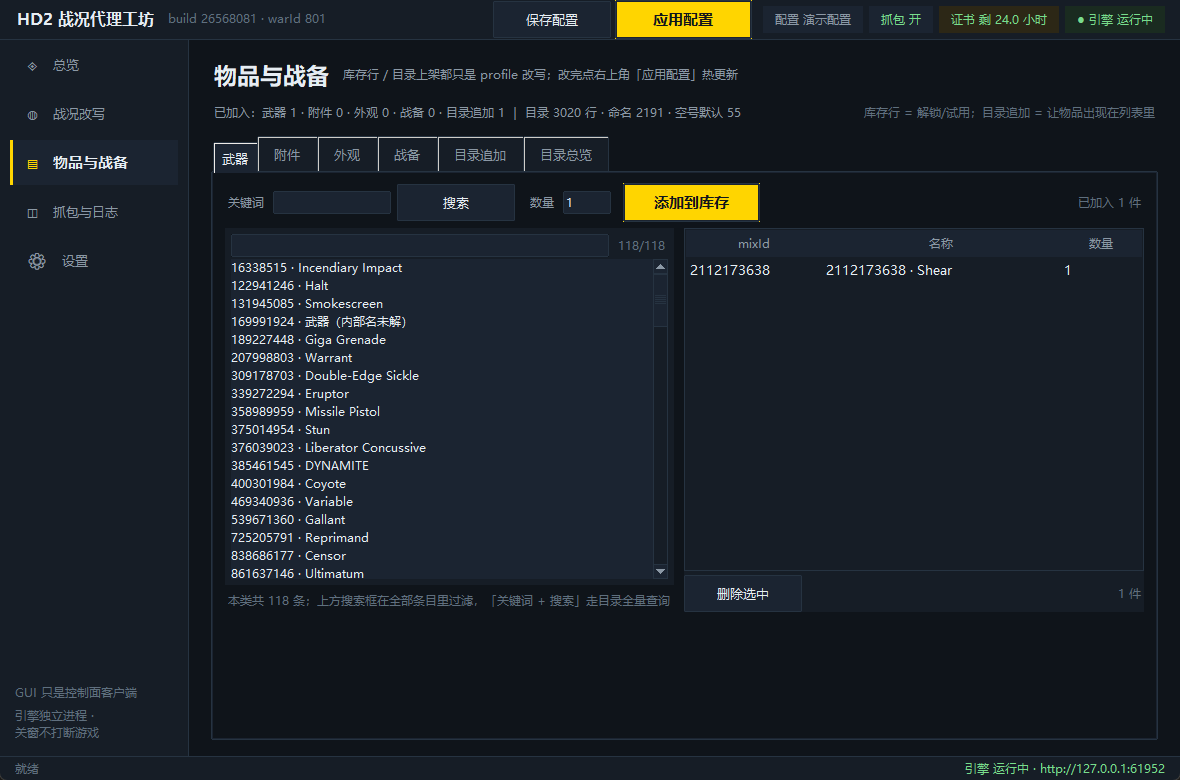
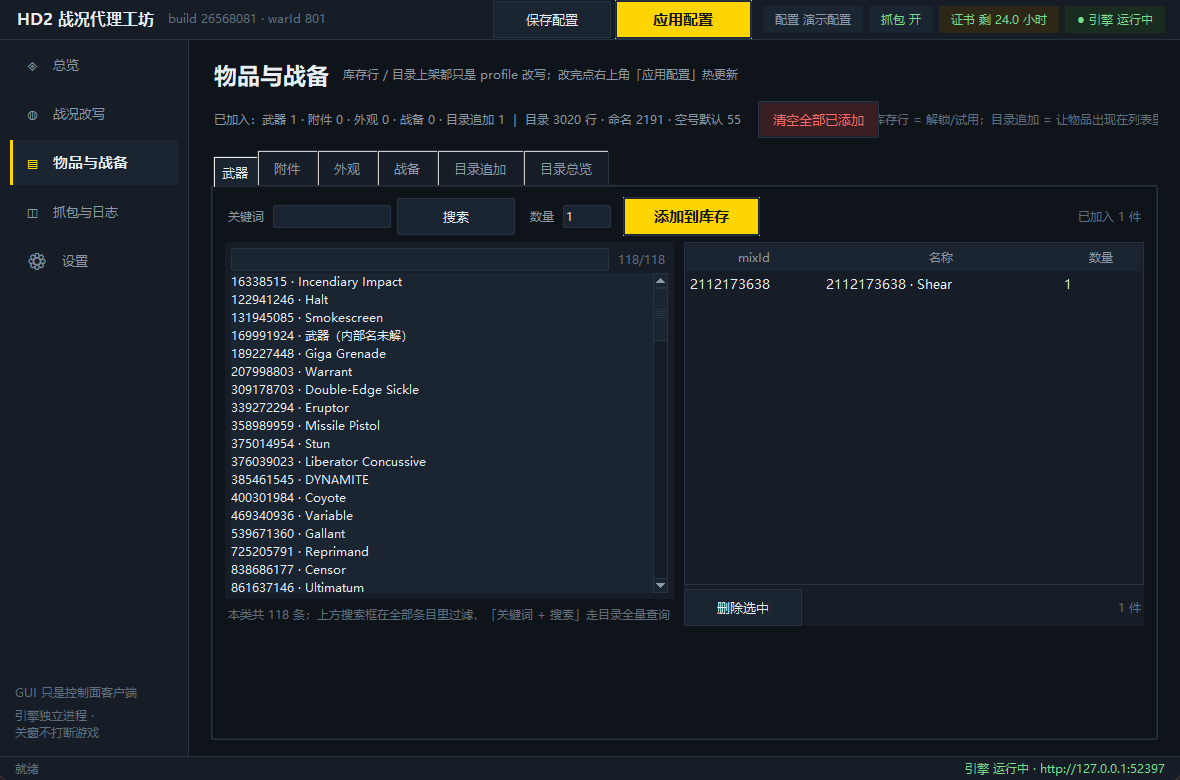
feat(inventory): 一键清空全部已添加项（批量移除库存 + 目录追加，0.4.1-alpha.1）
用户报：附件这类成百上千条的物品能批量添加（一级选武器 → 一键解锁该武器全部配件），
但移除只能逐条点「删除选中」，一把枪几十条撤回点几十次。

- 物品与战备页顶部新增 danger 按钮「清空全部已添加」：一次撤回本页所有改动 ——
  武器/附件/外观/战备四类库存行 + 目录追加列表全部清空；目录缺失物品自动配对的
  目录行随之消失；profile["items"]["template"] 标量设置保留。
- 交互：确认框先列出各类条数（武器 0 · 附件 117 · … · 目录追加 1），点「否」零改动；
  没有可清项时提示「本页没有已添加项」，不弹确认框；只改内存 profile，
  「应用配置」后才热更新到引擎（与其它编辑一致）。
- 测试：468 → 470（批量添加后「否保留 / 是清空 + template 保留 + 汇总归零」端到端；
  空列表提示且不标脏）；门禁 GATE=PASS。
- 文档：CHANGELOG / docs/RELEASE-v0.4.1-alpha.1.md / README / PLAN 15.5；物品页截图刷新。

版本：小幅功能扩展 ⇒ 0.4.0-alpha.1 → 0.4.1-alpha.1（patch 位 + alpha.1 重置）。

diff --git a/src/hd2proxy/gui/pages/inventory.py b/src/hd2proxy/gui/pages/inventory.py
@@ -7,7 +7,7 @@
 """
 
 import tkinter as tk
-from tkinter import ttk
+from tkinter import messagebox, ttk
 
 from .. import theme
 from ..catalogs import CATALOG_SCOPES, ITEM_CATEGORY_LABELS
@@ -55,6 +55,9 @@ class InventoryPage(Page):
         bar.pack(fill="x", padx=22, pady=(0, 8))
         self.sum_lbl = tk.Label(bar, text="", bg=theme.BG, fg=theme.MUTED, font=theme.F_S)
         self.sum_lbl.pack(side="left")
+        # 一键撤回本页所有改动：四类库存行 + 目录追加（附件这类成百上千条的库存没法手点删）
+        theme.button(bar, "清空全部已添加", danger=True,
+                     command=self._clear_all_added).pack(side="left", padx=(14, 0))
         tk.Label(bar, text="库存行 = 解锁/试用；目录追加 = 让物品出现在列表里",
                  bg=theme.BG, fg=theme.DIM, font=theme.F_S).pack(side="right")
 
@@ -606,6 +609,44 @@ class InventoryPage(Page):
             doc = {}
             self.app.profile["items"] = doc
         return doc
+
+    # ---------------------------------------------------------------- 批量清空
+    def _clear_all_added(self):
+        """一键移除本页**所有已添加项**：四类库存行 + 目录追加行（只改本机 profile）。
+
+        为什么需要：附件是「武器 × 附件」粒度，一把枪批量添加能一次进几十条，
+        但没有批量移除时只能逐条点删除（附件最多 1455 条）。这里按「全部撤回」处理：
+        四类库存行清空 + 目录追加清空（目录缺失物品自动配对的目录行随之消失），
+        template 这类标量设置保留。确认框会先列出各类条数，取消不改任何东西。
+        """
+        inv = self._inventory(create=False)
+        counts = {key: len(inv.get(key) or []) for key, _label in EDIT_TABS}
+        add = self._items(create=False).get("add") or []
+        add_count = len(add) if isinstance(add, list) else 0
+        total = sum(counts.values()) + add_count
+        if not total:
+            self.app.toast("本页没有已添加项（库存与目录追加都是空的）", error=True)
+            return
+        detail = " · ".join("%s %d" % (label, counts[key]) for key, label in EDIT_TABS)
+        if add_count:
+            detail += " · 目录追加 %d" % add_count
+        message = chr(10).join([
+            "确定移除本页所有已添加项？", "", detail, "",
+            "只改本机 profile；点「应用配置」后才影响引擎。",
+        ])
+        if not messagebox.askyesno("清空全部已添加", message):
+            return
+        for key, _label in EDIT_TABS:
+            inv[key] = []
+        if add_count:
+            self._items()["add"] = []
+        self.app.mark_dirty()
+        for key, _label in EDIT_TABS:
+            self._render_tab(key)
+        self._render_items()
+        self._render_summary()
+        self.app.toast("已清空全部已添加项：库存 %d 条 · 目录追加 %d 条"
+                       % (sum(counts.values()), add_count))
 
     # ---------------------------------------------------------------- 刷新
     def _render_summary(self):

diff --git a/tests/unit/test_gui_pages.py b/tests/unit/test_gui_pages.py
@@ -555,6 +555,60 @@ def test_inventory_catalog_add_dedup(inv_page, app):
     assert app.profile["items"]["add"] == []
 
 
+def test_inventory_clear_all_added_removes_everything(inv_page, app, monkeypatch):
+    """一键清空：四类库存行 + 目录追加全撤（附件批量加整把武器后不必逐条删）。
+
+    附件是「武器 × 附件」粒度：一把枪批量添加一次几十条，最多 1455 条。本按钮是
+    「全部撤回」语义 —— 库存四类清空 + 目录追加清空，template 这类标量设置保留。
+    """
+    page = inv_page
+    gallery = page.app.catalogs.attachment_groups()
+    _pid, _name, items = gallery[0]
+    page._weapon_lists["attachments"].listbox.selection_set(0)
+    page._weapon_lists["attachments"]._on_select()
+    page._add_item("attachments")                       # 批量加整把武器的配件
+    assert len(app.profile["inventory"]["attachments"]) == len(items) > 0
+    weapon_mix = page.app.catalogs.search_items("", category="weapon")[0][0]
+    page._append_inventory_row("weapons", weapon_mix, 1)
+    page.catalog_list.listbox.selection_set(0)
+    page.var_template.set("2797466032")
+    page._add_catalog_item()                            # 目录追一条
+    assert app.profile["inventory"]["weapons"] and app.profile["items"]["add"]
+    # 取消：一条也不改
+    monkeypatch.setattr("hd2proxy.gui.pages.inventory.messagebox.askyesno",
+                        lambda *a, **k: False)
+    page._clear_all_added()
+    assert app.profile["inventory"]["weapons"]
+    assert app.profile["inventory"]["attachments"]
+    assert app.profile["items"]["add"]
+    # 确认：库存四类 + 目录追加全部清空
+    monkeypatch.setattr("hd2proxy.gui.pages.inventory.messagebox.askyesno",
+                        lambda *a, **k: True)
+    dirty_before = app.dirty
+    page._clear_all_added()
+    for key, _label in (("weapons", "武器"), ("attachments", "附件"),
+                        ("cosmetics", "外观"), ("stratagems", "战备")):
+        assert app.profile["inventory"][key] == [], key
+    assert app.profile["items"]["add"] == []
+    assert app.profile["items"]["template"] == 2797466032       # 标量设置保留
+    assert app.dirty > dirty_before
+    text, error = app.last_toast()
+    assert not error and "已清空全部已添加项" in text
+    assert "武器 0" in page.sum_lbl.cget("text")
+
+
+def test_inventory_clear_all_added_when_empty_toasts_error(inv_page, app):
+    """没有已添加项时点按钮：明确提示，不弹确认框、不标脏。"""
+    page = inv_page
+    app.profile["inventory"] = {}
+    app.profile.setdefault("items", {})["add"] = []
+    dirty_before = app.dirty
+    page._clear_all_added()
+    text, error = app.last_toast()
+    assert error and "没有已添加项" in text
+    assert app.dirty == dirty_before
+
+
 # ---------------------------------------------------------------- CapturePage
 
 

diff --git a/src/hd2proxy/__init__.py b/src/hd2proxy/__init__.py
@@ -4,4 +4,4 @@ M0 阶段：只做「代码迁移 + 离线自检可复现」。
 引擎入口见 `hd2proxy.engine.legacy_proxy`（逐字节迁移自研究线 war_proxy.py）。
 """
 
-__version__ = "0.4.0-alpha.1"
+__version__ = "0.4.1-alpha.1"

diff --git a/README.md b/README.md
@@ -8,15 +8,16 @@
 - 开发计划：[PLAN.md](PLAN.md) ｜ 代码来源与哈希：[docs/PROVENANCE.md](docs/PROVENANCE.md)
 - GUI 选型实测（稳定性/资源占用）：[research/TECH-STACK-DECISION.md](research/TECH-STACK-DECISION.md)
 
-> **当前状态：v0.4.0-alpha.1 已发布（2026-11-18，M0–M5 完成）** —— 引擎模块化 + 配置面/控制面/安装还原/证书自动续期/三连验收
+> **当前状态：v0.4.1-alpha.1 已发布（2026-11-18，M0–M5 完成）** —— 引擎模块化 + 配置面/控制面/安装还原/证书自动续期/三连验收
 > + **Tk GUI 五页** + **6 项能力模板 + 离线预演** + **6 项能力实机逐项验收通过**
 > （安装→游戏内验证→还原全链路，见 [docs/ACCEPTANCE-M4.md](docs/ACCEPTANCE-M4.md)），
-> **468 个单元测试 + 5 个离线自检全绿**；已打包发布 `v0.4.0-alpha.1`（见下方「下载」）。
+> **470 个单元测试 + 5 个离线自检全绿**；已打包发布 `v0.4.1-alpha.1`（见下方「下载」）。
 > 0.3.0 起「启动引擎」会先做 **443/8080/17897 端口预检**（冲突列占用者、可换监听地址），总览页新增**系统自检**（端口 / hosts / 证书 / 游戏进程）；
 > alpha.2 修掉现场检查弹控制台窗 + 切总览卡顿（子进程隐藏窗口 / 一条 `netstat -ano` / 诊断节流）；
 > alpha.3 修掉「续期证书后游戏报 Error 60」：证书信任状态进自检/红字，GUI 新增「安装 / 修复（UAC）」，续期后自动引导导入信任；
 > alpha.1(0.4.0) 把**服务端物品目录 3020 行全量**做进产品：`items.json` 1950 → **3062 条**、名字 1821 → **2191**、
 > 标注**空号默认拥有 55 项**，物品页新增只读 **「目录总览」** tab（汇总 / 类别筛选 / 默认已有 · 目录缺标记）。
+> alpha.1(0.4.1) 物品解锁加 **「清空全部已添加」**：一键撤回四类库存 + 目录追加（附件批量添加后的批量移除）。
 > 界面实拍：[总览](research/screenshots/gui-overview.png) ｜ [战况改写](research/screenshots/gui-status.png) ｜
 > [物品与战备](research/screenshots/gui-inventory.png) ｜ [目录总览（新）](research/screenshots/gui-inventory-catalog.png) ｜
 > [抓包与日志](research/screenshots/gui-capture.png) ｜
@@ -47,14 +48,14 @@ python tools/bump_version.py feature --minor # 功能更新：X.Y.Z 变，回 al
 
 门禁会校验版本一致性（`__version__` ↔ `pyproject` PEP 440 ↔ CHANGELOG ↔ 已打 tag 的 Release Notes）。
 
-## 下载（v0.4.0-alpha.1）
+## 下载（v0.4.1-alpha.1）
 
 > **预览版（alpha）**：M4 已逐项实机验证 6 项能力，但更多机型/网络环境/游戏更新后的
 > 全流程稳定性还需要时间验证，先以 alpha 发布。完整说明见
-> [Release Notes](docs/RELEASE-v0.4.0-alpha.1.md)。
+> [Release Notes](docs/RELEASE-v0.4.1-alpha.1.md)。
 
-- 下载：[GitHub Releases · v0.4.0-alpha.1](https://github.com/deepseekv41flash/hd2-proxy-toolkit/releases/tag/v0.4.0-alpha.1)
-  （`hd2proxy-toolkit-v0.4.0-alpha.1-windows-x64.zip` + `SHA256SUMS.txt`）
+- 下载：[GitHub Releases · v0.4.1-alpha.1](https://github.com/deepseekv41flash/hd2-proxy-toolkit/releases/tag/v0.4.1-alpha.1)
+  （`hd2proxy-toolkit-v0.4.1-alpha.1-windows-x64.zip` + `SHA256SUMS.txt`）
 - 要求：Windows 10/11 x64；**不需要装 Python**；日常运行不需要管理员，只有安装/还原各弹一次 UAC。
 - 解压即用（onedir，约 15 MB 压缩包 / 解压后约 60 MB）。
   **普通用户双击 `hd2proxy-gui.exe` 打开图形界面**（无控制台）；`hd2proxy.exe` 是 CLI，
@@ -84,7 +85,7 @@ hd2proxy.exe uninstall
 ```bash
 python -m pip install cryptography pytest   # 运行依赖 + 测试依赖
 set PYTHONPATH=src                          # 源码树内使用（或 pip install -e .）
-python tools/check_gate.py                  # 门禁：版本一致性 + 语法 + 路径 + 468 单测 + 5 个离线自检
+python tools/check_gate.py                  # 门禁：版本一致性 + 语法 + 路径 + 470 单测 + 5 个离线自检
 ```
 
 自检全部离线（本机假上游 + 临时数据目录 + 临时证书），不需要游戏、不需要联网、不需要管理员。
@@ -144,7 +145,7 @@ GUI 里是战况页顶部「能力模板」条右侧的**离线预演**按钮；
 src/hd2proxy/engine/                    引擎（server / 钩子 / 配置 / 证书 / 安装 / 控制面 / 离线预演 preview.py）
 src/hd2proxy/gui/                       Tk GUI：壳 + 5 页 + widgets + templates.py（能力模板）
 src/hd2proxy/versioning.py               版本规则与 PEP 440 映射（docs/VERSIONING.md 的实现）
-tests/unit/                             单元测试（468 条：钩子等价性 / 配置 / 证书 / 引擎整链路 / GUI / 预演 / 模板 / 变种目录 / 物品名 / 目录补全 / CLI）
+tests/unit/                             单元测试（470 条：钩子等价性 / 配置 / 证书 / 引擎整链路 / GUI / 预演 / 模板 / 变种目录 / 物品名 / 目录补全 / CLI）
 tests/selftest*.py                      5 个脚本式离线自检（迁自研究线，仅改路径）
 tools/run_selftests.py                  自检总入口（独立证书/数据目录，GATE 判定）
 tools/check_gate.py                     门禁：版本一致性 + 语法 + 绝对路径 + pytest + 5 自检

diff --git a/docs/RELEASE-v0.4.1-alpha.1.md b/docs/RELEASE-v0.4.1-alpha.1.md
@@ -1,0 +1,59 @@
+# v0.4.1-alpha.1 — 物品解锁：一键清空全部已添加项（批量移除库存/目录追加）（2026-11-18）
+
+> **alpha 预览版 · 小幅功能扩展**：patch 位变化（`0.4.0-alpha.1` → **`0.4.1-alpha.1`**）。
+
+## 背景
+
+物品解锁页支持批量**添加**：附件 tab 一级选武器 + 「添加到库存」= 一次解锁该武器全部配件
+（附件是「武器 × 附件」粒度，最多 1455 条）。但**移除只能逐条点**右侧表格的「删除选中」——
+附件一把枪几十条，想要撤回整把枪的配件得点几十次；也没有「全部撤回」的入口。
+
+## 新增：顶部「清空全部已添加」按钮
+
+物品与战备页顶部汇总行右侧新增红色按钮 **「清空全部已添加」**（danger），一次撤回本页所有改动：
+
+| 清掉 | 说明 |
+|---|---|
+| 武器 / 附件 / 外观 / 战备 四类库存行 | `profile["inventory"][key]` 全部清空（库存行 = 解锁/试用） |
+| 目录追加列表 | `profile["items"]["add"]` 清空；「目录缺失物品」自动配对的目录行随之消失 |
+| 保留 | `profile["items"]["template"]` 这类标量设置、以及 profile 的其它页数据 |
+
+交互细节：
+
+- 点击先弹**确认框**，列出各类条数（例：`确定移除本页所有已添加项？` / `武器 0 · 附件 117 · 外观 1 · 战备 0 · 目录追加 1`）；
+  **点「否」不做任何改动**；
+- 本页没有可清项时直接提示「本页没有已添加项（库存与目录追加都是空的）」，不弹确认框；
+- 只改本机内存 profile，点右上角「应用配置」后才热更新到引擎（与其它编辑操作一致），
+  「保存配置」才落盘。
+
+## 验证
+
+- 单测 **468 → 470**：
+  - 批量添加一把武器的全部配件 + 加一条武器 + 目录追一条 → 点「否」全部保留；点「是」四类库存行与
+    目录追加全部清空、`template` 保留、汇总行归零、toast 报数（端到端断言）；
+  - 空列表时点按钮：明确提示、不弹框、不标脏。
+- `python tools/check_gate.py` → **GATE=PASS**。
+- 打包版实机（临时 state 隔离用户 profile）：附件 tab 一级选武器 → 批量添加 → 顶部「清空全部已添加」→
+  确认框列出条数 → 点「是」→ 汇总「已加入：附件 0」、列表清空；点「否」路径再次验证无改动。
+
+## 下载
+
+| 文件 | 说明 |
+|---|---|
+| `hd2proxy-toolkit-v0.4.1-alpha.1-windows-x64.zip` | onedir 分发包（解压即用） |
+| `SHA256SUMS.txt` | 校验和（zip + 两个 exe，签名之后计算） |
+
+```powershell
+Get-FileHash .\hd2proxy-toolkit-v0.4.1-alpha.1-windows-x64.zip -Algorithm SHA256
+```
+
+## 升级提示
+
+覆盖安装即可（配置与证书在 `%LOCALAPPDATA%\HD2ProxyStudio`，不受影响；profile 格式未变）。
+升级后打开「物品与战备」页即可看到顶部新增的「清空全部已添加」按钮。
+
+## 已知限制（alpha）
+
+- 本版只做「全部清空」：暂不支持「只清某一类」「只清某把武器的配件」「只清列表里多选的行」——
+  单项删除仍用各 tab「删除选中」（后续版本可按需加按类/按武器批量移除）；
+- 引擎侧上游偶发超时（多 IP 重试）仍是待办，未包含在本版。

diff --git a/CHANGELOG.md b/CHANGELOG.md
@@ -6,6 +6,21 @@
 > `alpha.N` / `rc.N`。alpha = 新功能阶段（可能有 bug），rc = 用户实机验证过（只修 bug），
 > GA = 功能与 bug 收敛。完整规则见 [docs/VERSIONING.md](docs/VERSIONING.md)。
 
+## v0.4.1-alpha.1（2026-11-18）— 物品解锁：一键清空全部已添加项（批量移除库存/目录追加）
+
+- **新功能（用户报）**：附件这类成百上千条的物品能「批量添加」（一级选武器 → 一键解锁该武器全部配件），
+  但**没有批量移除**，只能逐条点「删除选中」（一把枪几十条，撤回要点几十次）。
+- 物品与战备页顶部汇总行右侧新增 **「清空全部已添加」**（danger 按钮）：一次撤回本页所有改动 ——
+  武器/附件/外观/战备 **四类库存行** + **目录追加**列表全部清空；「目录缺失物品」自动配对的目录行
+  随之消失；`profile["items"]["template"]` 这类标量设置保留。
+- 交互：点击先弹确认框列出各类条数（如「武器 0 · 附件 117 · 外观 1 · 战备 0 · 目录追加 1」），
+  **点「否」不做任何改动**；没有可清项时直接提示「本页没有已添加项（库存与目录追加都是空的）」。
+  只改本机内存 profile，「应用配置」后才热更新到引擎（与其它编辑操作一致）。
+- **验证**：单测 468 → **470**（批量添加后「否保留 / 是清空 + template 保留 + 汇总归零」端到端；
+  空列表提示且不标脏）；`check_gate.py` **GATE=PASS**；打包版实机临时 state 隔离验证（批量添加 →
+  清空 → 二次确认 → 已加入归零）。
+- 规则：小幅功能扩展 ⇒ `0.4.0-alpha.1` → **`0.4.1-alpha.1`**（patch 位 + alpha.1 重置）。
+
 ## v0.4.0-alpha.1（2026-11-18）— 服务端物品目录全量做进产品（3020 行 · GUI「目录总览」· 空号默认 55）
 
 - **新功能（用户要求）**：把 `/api/Progression/items` 的 **3020 行全量目录**做进产品 ——

diff --git a/PLAN.md b/PLAN.md
@@ -761,6 +761,18 @@ uninstall + 清理旧 hosts 残留的**完整闭环**跑通；期间暴露的 6 
 
 ---
 
+### 15.5 v0.4.1-alpha.1（2026-11-18，物品解锁：批量移除「清空全部已添加」）
+
+- 用户报：附件这类成百上千条的物品能批量添加（一级选武器 → 一键解锁该武器全部配件），
+  但移除只能逐条点「删除选中」。
+- 新增：物品与战备页顶部 **「清空全部已添加」**（danger）—— 四类库存行 + 目录追加全清，
+  目录缺失物品自动配对的目录行随之消失，`template` 标量保留；确认框先列各类条数，取消零改动；
+  空列表时提示不弹框；只改内存 profile，「应用配置」后生效。
+- 回归测试 468 → **470 passed**（确认/取消/空列表三态 + 批量添加后一键清空端到端）；门禁 PASS。
+- 规则：小幅功能扩展 ⇒ `0.4.0-alpha.1` → **`0.4.1-alpha.1`**（patch 位 + alpha.1 重置）。
+
+---
+
 ## 附：本轮不做
 
 - 星图可视化大画布、多人同步、服务端写入（幻影战局不落账，交接档 §6.1 已定证）
